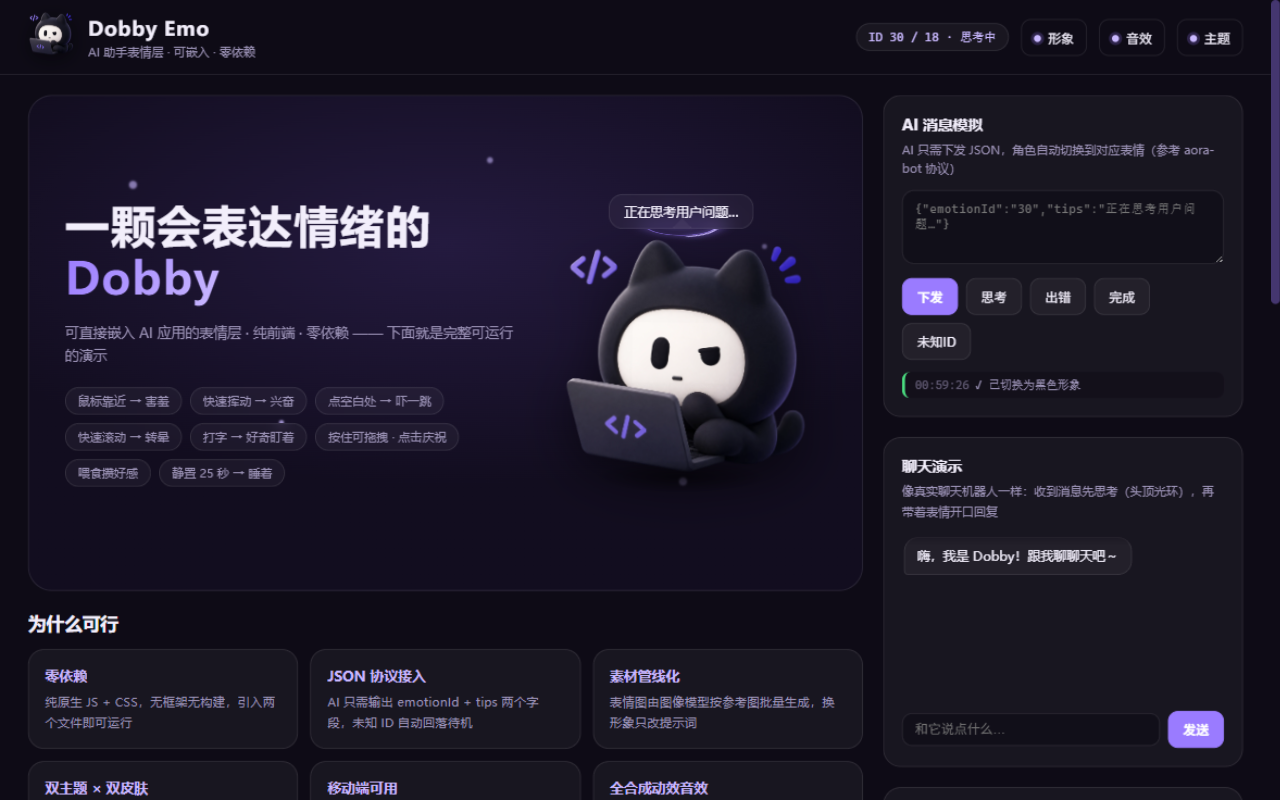
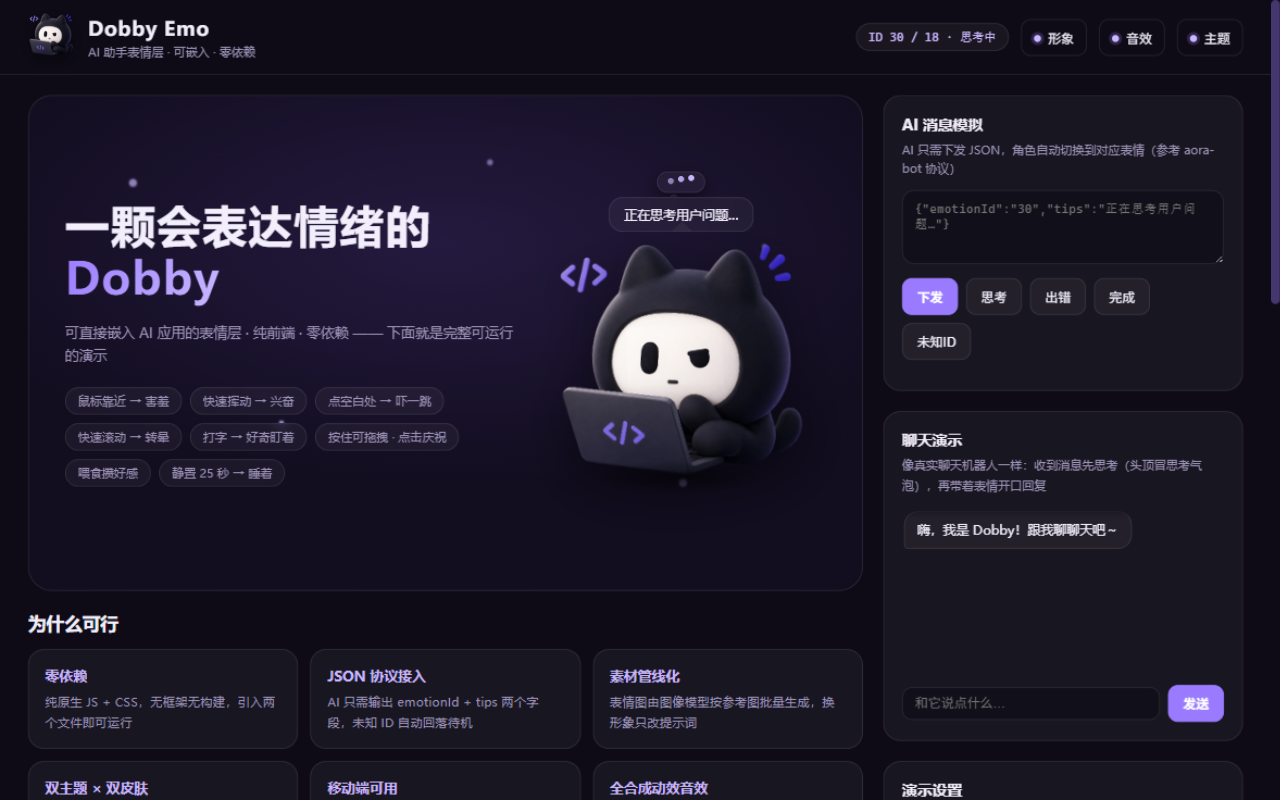
思考指示改对话式气泡 + 眼神跟随收敛
思考 / 搜索 / 加载三种状态各自换成语义明确的指示：
- 30 思考中：头顶「思考气泡」——三点跳动 + 两粒小圆点尾巴指向脑袋，
  就是聊天界面里通用的 typing 指示；位置抬到台词气泡之上，两者同现不打架
- 31 搜索中：三颗小光点绕着脑袋转（扫描感）
- 34 处理中：头顶一条流动的进度光带
- 彻底去掉之前那个「圈」及其相关 CSS / DOM（透视椭圆光环、虚线圆环）

眼神跟随（用户反馈「一直盯着鼠标看」太灵敏）
- 距离门控：只有指针进到角色 460px 内才看过去，页面别处移动鼠标时它自己张望
- 死区 34px：指针就停在脸中间时眼球缓慢回正，不再左右抖
- 增益改为按头部尺度归一化（指针到头部侧缘约 220px 时眼球到边），
  之前按整屏宽归一化，导致贴近脸部时眼球几乎不动、远处反而追得过猛
- 幅度整体收敛：眼球最 ±9px→±7px、头部倾斜 5px/4.5°→3px/2.4°、
  平滑系数 4.2→2.4（更松弛，跟随有明显延迟感）

diff --git a/css/style.css b/css/style.css
@@ -567,70 +567,75 @@ select {
 /* ============ 常驻特效层 ============ */
 .dobby-aura { position: absolute; top: 0; right: 0; bottom: 0; left: 0; pointer-events: none; z-index: 5; }
 
-/* 思考/搜索：头顶悬浮的倾斜光环（在角色层之下，耳朵自然压住环的下缘） */
-.dobby-halo {
-  position: absolute; left: 50%; top: -14%;
-  width: 29%; height: 29%;
-  margin-left: -14.5%;
-  pointer-events: none;
-  opacity: 0;
-  transition: opacity .35s ease;
-}
-.dobby[data-fx="ring"] .dobby-halo { opacity: 1; }
-.dobby-halo i, .dobby-halo b {
-  position: absolute; top: 0; right: 0; bottom: 0; left: 0;
-  border-radius: 50%;
-}
-/* 环体：透视压扁成椭圆 + 光晕 */
-.dobby-halo i {
-  border: 2.5px solid color-mix(in srgb, var(--accent) 62%, transparent);
-  background: radial-gradient(ellipse at center,
-              color-mix(in srgb, var(--accent) 18%, transparent) 42%, transparent 72%);
-  box-shadow: 0 0 18px color-mix(in srgb, var(--accent) 50%, transparent),
-              inset 0 0 14px color-mix(in srgb, var(--accent) 32%, transparent);
-  -webkit-transform: perspective(320px) translateY(0) rotateX(73deg);
-  transform: perspective(320px) translateY(0) rotateX(73deg);
-  animation: halo-bob 3.6s ease-in-out infinite;
-}
-/* 追光：一段亮弧沿椭圆跑 */
-.dobby-halo b {
-  border: 3px solid transparent;
-  border-top-color: var(--accent-2);
-  filter: drop-shadow(0 0 7px var(--accent));
-  -webkit-transform: perspective(320px) rotateX(73deg) rotateZ(0deg);
-  transform: perspective(320px) rotateX(73deg) rotateZ(0deg);
-  animation: halo-spin 1.8s linear infinite;
-}
-@keyframes halo-bob {
-  0%, 100% { -webkit-transform: perspective(320px) translateY(0) rotateX(73deg); transform: perspective(320px) translateY(0) rotateX(73deg); }
-  50% { -webkit-transform: perspective(320px) translateY(-6px) rotateX(73deg); transform: perspective(320px) translateY(-6px) rotateX(73deg); }
-}
-@keyframes halo-spin {
-  from { -webkit-transform: perspective(320px) rotateX(73deg) rotateZ(0deg); transform: perspective(320px) rotateX(73deg) rotateZ(0deg); }
-  to   { -webkit-transform: perspective(320px) rotateX(73deg) rotateZ(360deg); transform: perspective(320px) rotateX(73deg) rotateZ(360deg); }
-}
-
-/* 加载中：思考气泡（三个跳动圆点） */
-.dots-bubble {
-  position: absolute; left: 50%; top: -10%;
-  transform: translateX(-50%);
+/* 30 思考中：头顶「思考气泡」——三点跳动 + 小圆点尾巴（对话界面通用语汇）
+   位置抬到台词气泡之上，两者同时出现也不会打架 */
+.dobby-think {
+  position: absolute; left: 50%; top: -12%;
+  transform: translate(-50%, -100%);
   display: flex; gap: 5px;
+  padding: 8px 12px;
+  border-radius: 15px;
   background: var(--panel);
   border: 1px solid var(--panel-border);
   backdrop-filter: blur(8px);
-  padding: 7px 12px;
-  border-radius: 14px;
-  animation: bubble-sway 2s ease-in-out infinite;
+  box-shadow: 0 6px 18px var(--shadow);
+  pointer-events: none;
 }
-.dots-bubble span {
+.dobby-think i {
   width: 7px; height: 7px; border-radius: 50%;
   background: var(--accent-2);
-  animation: dot-bounce 1s ease-in-out infinite;
+  animation: dot-bounce 1.1s ease-in-out infinite;
 }
-.dots-bubble span:nth-child(2) { animation-delay: .15s; }
-.dots-bubble span:nth-child(3) { animation-delay: .3s; }
+.dobby-think i:nth-child(2) { animation-delay: .16s; }
+.dobby-think i:nth-child(3) { animation-delay: .32s; }
+/* 尾巴：两粒由大到小的圆点，指向头顶 */
+.dobby-think::before, .dobby-think::after {
+  content: ""; position: absolute; border-radius: 50%;
+  background: var(--panel); border: 1px solid var(--panel-border);
+}
+.dobby-think::before { left: 50%; bottom: -11px; width: 6px; height: 6px; margin-left: -13px; }
+.dobby-think::after { left: 50%; bottom: -21px; width: 4px; height: 4px; margin-left: -19px; }
+
+/* 31 搜索中：绕着脑袋转的探照小点 */
+.dobby-orbit { position: absolute; left: 50%; top: 50%; width: 0; height: 0; pointer-events: none; }
+.dobby-orbit i {
+  position: absolute; left: -4px; top: -4px;
+  width: 8px; height: 8px; border-radius: 50%;
+  background: var(--accent-2);
+  box-shadow: 0 0 10px var(--accent);
+  transform-origin: 0 0;
+  animation: orbit 2.6s linear infinite;
+}
+.dobby-orbit i:nth-child(2) { animation-delay: -.55s; opacity: .75; }
+.dobby-orbit i:nth-child(3) { animation-delay: -1.1s; opacity: .5; }
+@keyframes orbit {
+  from { transform: rotate(0deg) translateX(96px) rotate(0deg); }
+  to   { transform: rotate(360deg) translateX(96px) rotate(-360deg); }
+}
+
+/* 34 处理中：头顶流动的进度光带 */
+.dobby-bar {
+  position: absolute; left: 50%; top: 1%;
+  width: 30%; height: 7px;
+  margin-left: -15%;
+  border-radius: 999px;
+  background: color-mix(in srgb, var(--accent) 18%, transparent);
+  overflow: hidden;
+  pointer-events: none;
+  box-shadow: 0 0 12px color-mix(in srgb, var(--accent) 35%, transparent);
+}
+.dobby-bar i {
+  position: absolute; top: 0; bottom: 0; left: 0;
+  width: 45%;
+  border-radius: 999px;
+  background: linear-gradient(90deg, transparent, var(--accent-2), transparent);
+  animation: bar-slide 1.25s ease-in-out infinite;
+}
+@keyframes bar-slide {
+  0%   { left: -45%; }
+  100% { left: 100%; }
+}
 @keyframes dot-bounce { 0%, 100% { transform: translateY(0); opacity: .5; } 50% { transform: translateY(-5px); opacity: 1; } }
-@keyframes bubble-sway { 0%, 100% { transform: translateX(-50%) translateY(0); } 50% { transform: translateX(-50%) translateY(-4px); } }
 
 /* 花痴/成功：持续飘浮粒子（心 / 星，同样是 CSS 画的） */
 .fx-p {

diff --git a/js/dobby.js b/js/dobby.js
@@ -68,7 +68,7 @@
     constructor(mount, opts = {}) {
       this.mount = mount;
       this.opts = Object.assign(
-        { size: 320, gaze: true, blink: true, autosleep: false, autosleepDelay: 20000 },
+        { size: 320, gaze: true, gazeRange: 460, blink: true, autosleep: false, autosleepDelay: 20000 },
         opts
       );
       this.onChange = null;   // (def, meta) => {}
@@ -119,10 +119,6 @@
       this.root = root;
       root.style.width = root.style.height = this.opts.size + "px";
       this._applyAnchor();
-
-      /* 头顶光环（思考 / 搜索）：放在角色之后面，让耳朵自然压住环的下缘 */
-      this.haloEl = el("div", "dobby-halo", root);
-      this.haloEl.innerHTML = "<i></i><b></b>";
 
       this.bobEl = el("div", "dobby-bob", root);
       this.tiltEl = el("div", "dobby-tilt", this.bobEl);
@@ -293,11 +289,15 @@
       this.root.dataset.fx = fx;
       this.auraEl.className = "dobby-aura fx-" + fx;
       this.auraEl.innerHTML =
-        fx === "dots"
-          ? '<div class="dots-bubble"><span></span><span></span><span></span></div>'
-          : fx === "steam"
-            ? '<i style="--sx:-16px;--d:0s"></i><i style="--sx:2px;--d:.55s"></i><i style="--sx:18px;--d:1.1s"></i>'
-            : "";
+        fx === "think"
+          ? '<div class="dobby-think"><i></i><i></i><i></i></div>'
+          : fx === "orbit"
+            ? '<div class="dobby-orbit"><i></i><i></i><i></i></div>'
+            : fx === "bar"
+              ? '<div class="dobby-bar"><i></i></div>'
+              : fx === "steam"
+                ? '<i style="--sx:-16px;--d:0s"></i><i style="--sx:2px;--d:.55s"></i><i style="--sx:18px;--d:1.1s"></i>'
+                : "";
     }
 
     /* 持续飘浮粒子（爱心 / 星光）—— 形用 CSS 画，不依赖 emoji 字体 */
@@ -450,20 +450,31 @@
         if (Math.hypot(this.pos.x, this.pos.y) > 40) this._landChecked = false;
       }
 
-      /* 视线：跟随指针；指针静止久了就自己四处张望（双正弦漫游） */
+      /* 视线：只有指针进入「它的活动范围」才看过去；离得远 / 静止久了就自己张望
+         另外留一个死区：指针就在脸中间时不要抖动 */
       let tx = 0, ty = 0;
       if (this.opts.gaze && !this.dragging) {
-        if (performance.now() - pointer.t < 2500) {
-          const c = this.faceCenter();
-          tx = clamp((pointer.x - c.x) / (innerWidth * 0.35), -1, 1);
-          ty = clamp((pointer.y - c.y) / (innerHeight * 0.35), -1, 1);
+        const c = this.faceCenter();
+        const d = Math.hypot(pointer.x - c.x, pointer.y - c.y);
+        const active = performance.now() - pointer.t < 4000;
+        if (active && d < this.opts.gazeRange) {
+          if (d > 34) {                                  // 死区：贴脸时不追
+            // 以「头部尺度」归一化：指针到头部侧缘（约 220px）时眼球到边
+            tx = clamp((pointer.x - c.x) / 220, -1, 1);
+            ty = clamp((pointer.y - c.y) / 180, -1, 1);
+          } else {
+            tx = this.gaze.x * 0.6;                      // 死区内缓慢回正
+            ty = this.gaze.y * 0.6;
+          }
         } else {
-          tx = Math.sin(t * 0.37) * 0.5 + Math.sin(t * 0.13) * 0.28;
-          ty = Math.cos(t * 0.31) * 0.38;
+          // 没在看它 / 指针离开：缓慢地自己东张西望
+          const w = t * 0.22;
+          tx = Math.sin(w) * 0.42 + Math.sin(t * 0.09) * 0.2;
+          ty = Math.cos(t * 0.17) * 0.26;
         }
       }
-      this.gaze.x += (tx - this.gaze.x) * lerpK(dt, 4.2);
-      this.gaze.y += (ty - this.gaze.y) * lerpK(dt, 4.2);
+      this.gaze.x += (tx - this.gaze.x) * lerpK(dt, 2.4);
+      this.gaze.y += (ty - this.gaze.y) * lerpK(dt, 2.4);
 
       /* 待机漂浮（睡觉放缓；说话时快速小抖动） */
       const sleeping = def.id === "01";
@@ -502,8 +513,8 @@
       /* 眼层：眼球跟着视线方向在眼眶里移动（只有带眼层的表情有） */
       const lay = def.eyeLayer;
       if (lay) {
-        const mx = lay.max == null ? 8 : lay.max;
-        const my = lay.maxY == null ? mx * 0.72 : lay.maxY;
+        const mx = lay.max == null ? 6.5 : lay.max;
+        const my = lay.maxY == null ? mx * 0.7 : lay.maxY;
         this._front.sprite.style.transform =
           `translate3d(${(this.gaze.x * mx).toFixed(2)}px, ${(this.gaze.y * my).toFixed(2)}px, 0)`;
       }
@@ -536,13 +547,13 @@
       this.root.style.transform =
         `translate3d(${this.pos.x}px, ${this.pos.y + hopY}px, 0) scale(${this._vs})`;
       this.bobEl.style.transform = `translateY(${bobY}px)`;
-      const rot = sway + this.gaze.x * 4.5 + spinDeg;
+      const rot = sway + this.gaze.x * 2.4 + spinDeg;
       this.tiltEl.style.transform =
-        `translate(${this.gaze.x * 5}px, ${this.gaze.y * 4}px) rotate(${rot}deg)`;
+        `translate(${this.gaze.x * 3}px, ${this.gaze.y * 2.4}px) rotate(${rot}deg)`;
       const sx = (1 + (1 - sq.s) * 0.55) * breath;
       /* 头和身体只做小幅倾斜，眼神交给眼层，避免整张脸平移 */
       this.faceEl.style.transform =
-        `translate(${this.gaze.x * 2.5}px, ${this.gaze.y * 2}px) scale(${sx}, ${sq.s * blinkScale})`;
+        `translate(${this.gaze.x * 1.6}px, ${this.gaze.y * 1.4}px) scale(${sx}, ${sq.s * blinkScale})`;
 
       /* 影子随位移缩放变淡 */
       const lift = clamp(Math.hypot(this.pos.x, this.pos.y) / 320, 0, 0.45);

diff --git a/js/emotions.js b/js/emotions.js
@@ -2,8 +2,9 @@
  * ID 分段约定（参考 aora-bot）:
  *   00-09 生命周期  10-29 情绪  30-49 智能体状态  50+ 自定义
  * 空位保留，已有 ID 永不变更。
- * effect:   常驻光环特效（ring 旋转光环 | dots 思考气泡 | hearts 飘爱心
- *           | sparkle 环绕星光 | glitch 故障抖动 | steam 冒蒸汽 | sleep 月亮）
+ * effect:   常驻状态特效（think 思考气泡 | orbit 环绕探照点 | bar 进度光带
+ *           | hearts 飘爱心 | sparkle 环绕星光 | glitch 故障抖动
+ *           | steam 冒蒸汽 | sleep 月亮）
  * img:      软件部固定形象烘焙表情（assets/sw/*.webp）
  * eyeLayer: 可动眼层 —— patch 是「抹掉烘焙眼睛」的脸部补丁，sprite 是眼球精灵，
  *           x/y/w/h 为图像坐标百分比，max 为 300px 尺寸下眼球最大位移（px）。
@@ -34,11 +35,11 @@ window.DOBBY_EMOTION_PRESET = [
     eyeLayer: { patch: "assets/sw/20-patch.webp", sprite: "assets/sw/20-eyes.webp",
                 x: 29.187, y: 39.952, w: 41.069, h: 24.003, max: 9, maxY: 6.5 } },
 
-  { id: "30", name: "思考中",  en: "Thinking",  group: "agent", img: "assets/sw/30.webp", effect: "ring",
+  { id: "30", name: "思考中",  en: "Thinking",  group: "agent", img: "assets/sw/30.webp", effect: "think",
     eyeLayer: { patch: "assets/sw/30-patch.webp", sprite: "assets/sw/30-eyes.webp",
                 x: 28.868, y: 38.038, w: 38.198, h: 23.525, max: 8.5, maxY: 6 } },
-  { id: "31", name: "搜索中",  en: "Searching", group: "agent", img: "assets/sw/31.webp", effect: "ring" },
+  { id: "31", name: "搜索中",  en: "Searching", group: "agent", img: "assets/sw/31.webp", effect: "orbit" },
   { id: "32", name: "出错了",  en: "Error",     group: "agent", img: "assets/sw/32.webp", effect: "glitch" },
   { id: "33", name: "完成",    en: "Success",   group: "agent", img: "assets/sw/33.webp", effect: "sparkle" },
-  { id: "34", name: "处理中",  en: "Loading",   group: "agent", img: "assets/sw/34.webp", effect: "dots" },
+  { id: "34", name: "处理中",  en: "Loading",   group: "agent", img: "assets/sw/34.webp", effect: "bar" },
 ];

diff --git a/index.html b/index.html
@@ -10,7 +10,7 @@
 <link rel="icon" type="image/webp" href="assets/sw/00.webp">
 <link rel="preload" as="image" href="assets/sw/00.webp">
 <title>Dobby Emo · 会表达情绪的小助手</title>
-<link rel="stylesheet" href="css/style.css?v=45">
+<link rel="stylesheet" href="css/style.css?v=47">
 </head>
 <body>
 
@@ -111,7 +111,7 @@
 
     <section class="card">
       <h2>聊天演示</h2>
-      <p class="card-desc">像真实聊天机器人一样：收到消息先思考（头顶光环），再带着表情开口回复</p>
+      <p class="card-desc">像真实聊天机器人一样：收到消息先思考（头顶冒思考气泡），再带着表情开口回复</p>
       <div class="chat-log" id="chatLog"></div>
       <div class="row">
         <input class="chat-input" id="chatInput" placeholder="和它说点什么…" maxlength="100">
@@ -165,8 +165,8 @@
 <!-- ===== 通知 ===== -->
 <div id="toasts"></div>
 
-<script src="js/emotions.js?v=45"></script>
-<script src="js/dobby.js?v=45"></script>
-<script src="js/main.js?v=45"></script>
+<script src="js/emotions.js?v=47"></script>
+<script src="js/dobby.js?v=47"></script>
+<script src="js/main.js?v=47"></script>
 </body>
 </html>

diff --git a/README.md b/README.md
@@ -3,7 +3,7 @@
 一套面向 AI 助手的**可嵌入表情层方案**：一只抱着电脑的 3D 小猫 Dobby 悬浮在页面舞台上，18 种状态表情，眼球会真的跟着你的鼠标 / 手指转，情绪从你的每个动作里"长"出来——而不是靠点卡片换图。纯前端、零依赖、两个文件即可接入，移动端同样可用。
 
 <p align="center">
-  <img src="docs/screenshots/dark.png" width="49%" alt="经典黑猫（思考中：头顶光环）">
+  <img src="docs/screenshots/dark.png" width="49%" alt="经典黑猫（思考中）">
   <img src="docs/screenshots/light.png" width="49%" alt="奶油香草（浅色主题）">
 </p>
 
@@ -15,9 +15,9 @@
 
 **表情系统**
 - 18 种状态表情，ID 分段约定（参考 aora-bot）：`00-09` 生命周期 / `10-29` 情绪 / `30-49` 智能体状态，空位保留、已有 ID 永不变更
-- **可动眼层**：待机 / 惊讶 / 害羞 / 眨眼 / 思考这 5 个表情把烘焙好的眼睛拆成了「脸部补丁 + 眼球精灵」两层，眼球在眼眶里真实位移（跟随视线 ±9px），其余表情用头部倾斜表达注意力方向
+- **可动眼层**：待机 / 惊讶 / 害羞 / 眨眼 / 思考这 5 个表情把烘焙好的眼睛拆成了「脸部补丁 + 眼球精灵」两层，眼球在眼眶里真实位移（最大 ±7px），其余表情用头部倾斜表达注意力方向
 - 双皮肤：经典黑猫 / 奶油香草，一键切换（主角色、陈列墙、徽标三处联动，选择持久化）
-- 表情切换带轻柔缩放过渡；持续状态有专属"进行中"特效：思考=头顶光环、加载=气泡圆点、花痴=飘爱心、出错=故障抖动、生气=冒蒸汽、睡觉=月亮
+- 表情切换带轻柔缩放过渡；持续状态有专属"进行中"特效：思考=头顶思考气泡、加载=流动光带、花痴=飘爱心、出错=故障抖动、生气=冒蒸汽、睡觉=月亮
 - 表情数据支持运行时注册 / 导入 / 导出（JSON 配置）
 
 **行为反应层**（无需任何指令，情绪从交互中产生；只有指针进到角色附近才会反应，在页面别处操作不会被打扰）
@@ -29,7 +29,7 @@
 | 按住它不动 1.1 秒 | 眯眼享受，冒爱心（触屏也能"抚摸"） |
 | 点击页面空白处 | 吓一跳（小跳一下） |
 | 快速滚动页面 | 螺旋眼转晕 |
-| 在输入框打字 | 好奇地凑过来看（头顶光环） |
+| 在输入框打字 | 好奇地凑过来看 |
 | 2 秒内连戳它 3 次 | 生气："别戳了！" |
 | 静置 25 秒 / 切走标签页 | 睡着（冒 Zzz），一动就醒 |
 | 喂食 / 陪玩 | 羁绊经验 +5~10，升级有彩带礼花 |
@@ -38,7 +38,7 @@
 反应本身还有 1.6 秒全局防抖和各自的冷却时间——一次动作只给一个反应，不会被连环切换刷屏。
 
 **动画引擎**（零依赖，原生 JS + rAF）
-- 视线系统：指针位置 → 指数平滑 → 眼球位移 + 头部微倾；指针静止 2.5 秒后切换为双正弦自主游移，没人理它也在东张西望
+- 视线系统：指针进入它的活动范围（460px 内）才看过去，按头部尺度归一化（指针到头部侧缘时眼球到边），带 34px 死区所以贴脸也不会抖；指针离开 / 静止几秒后切换为自主张望，不会一直死盯光标
 - 拖拽甩动 → 弹簧回位、落地挤压，点击 → 彩带礼花
 - 眨眼带回弹过冲、呼吸缩放、说话时身体小抖动
 - 共享 rAF 心跳，所有动画帧率无关
